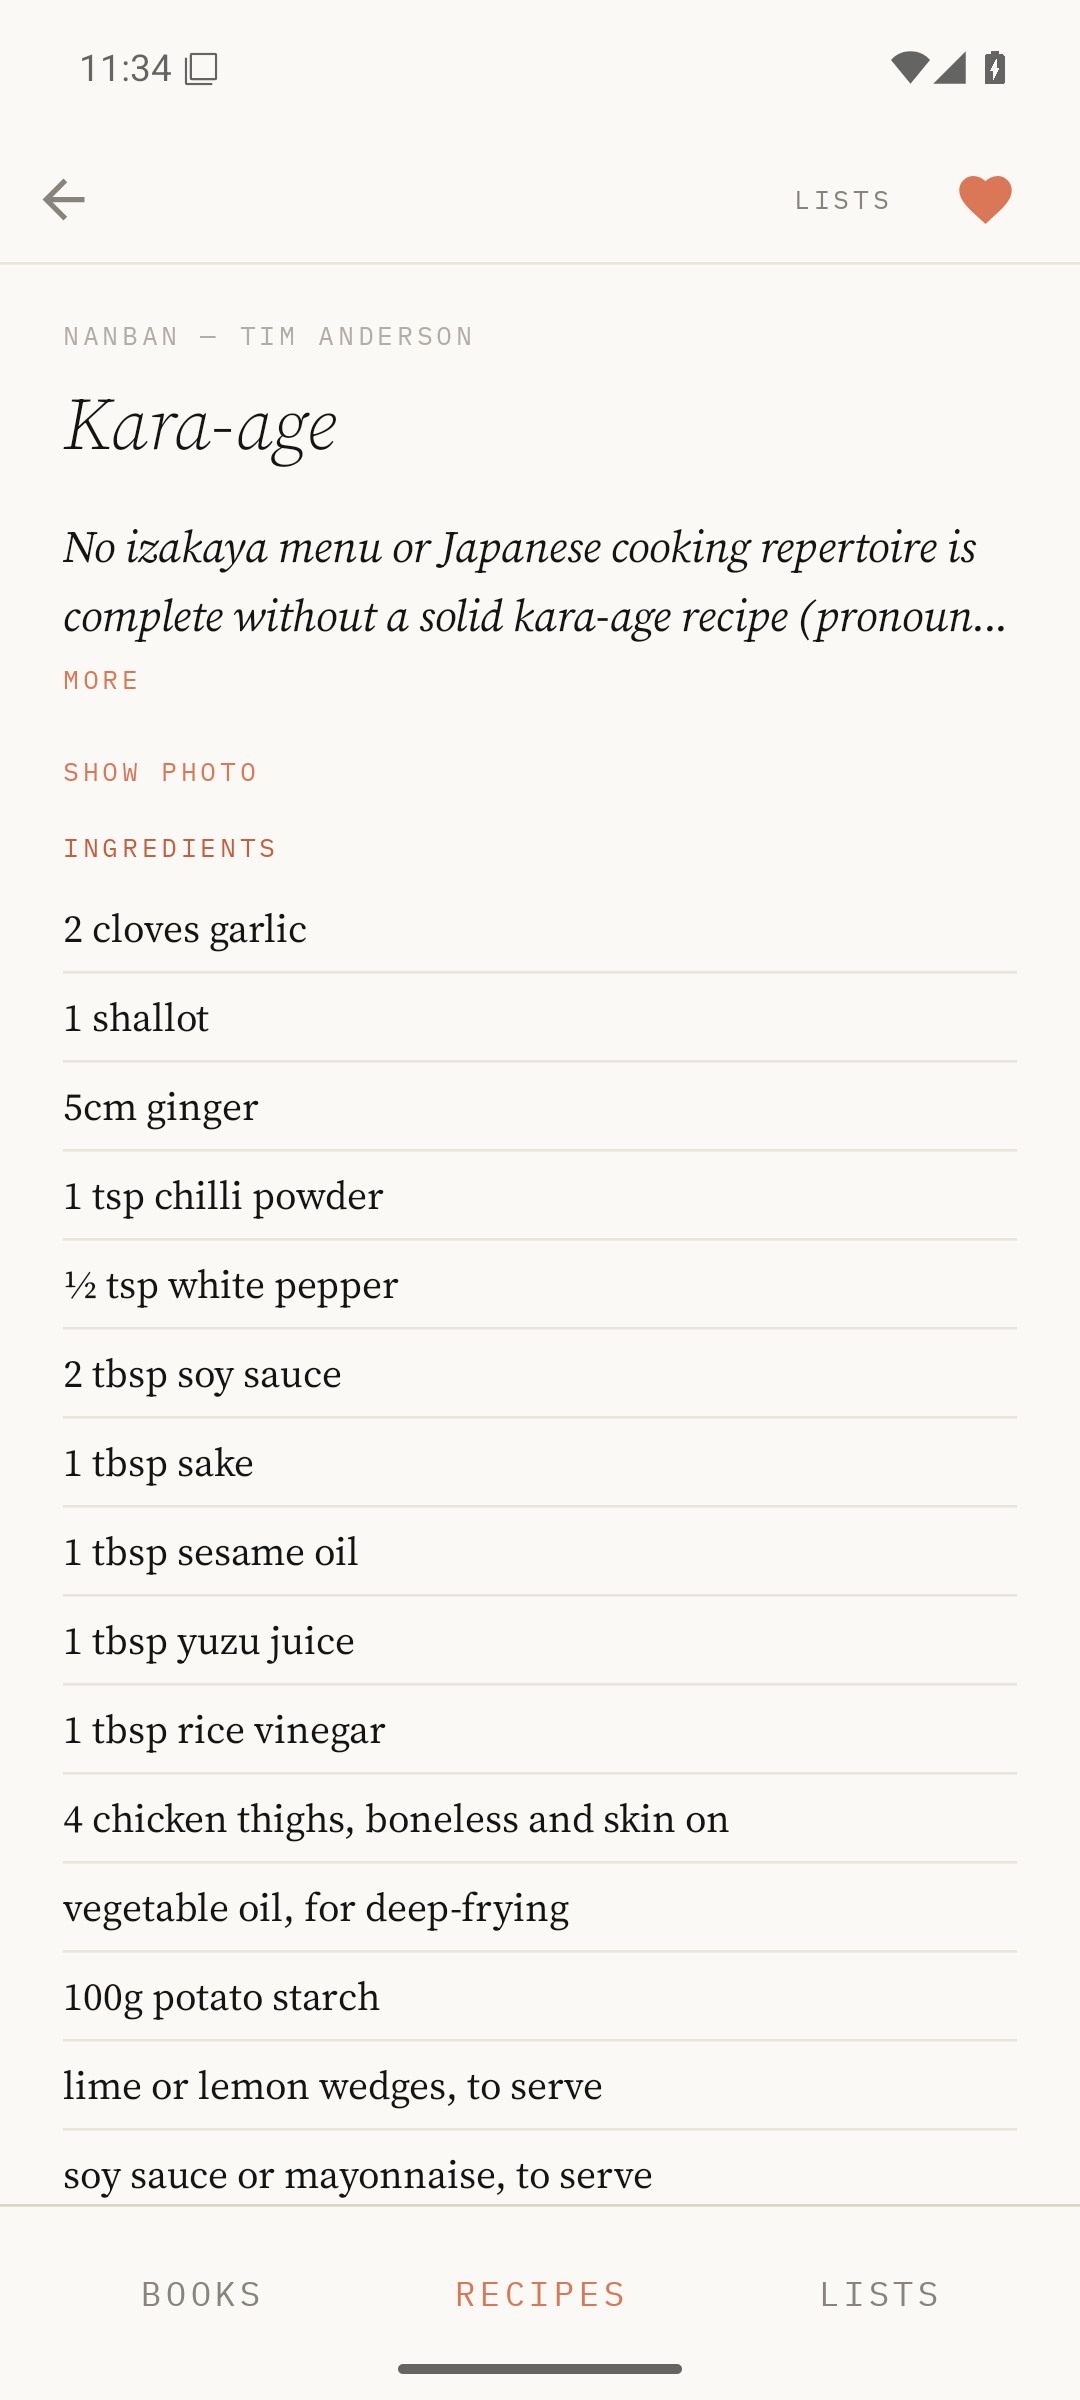
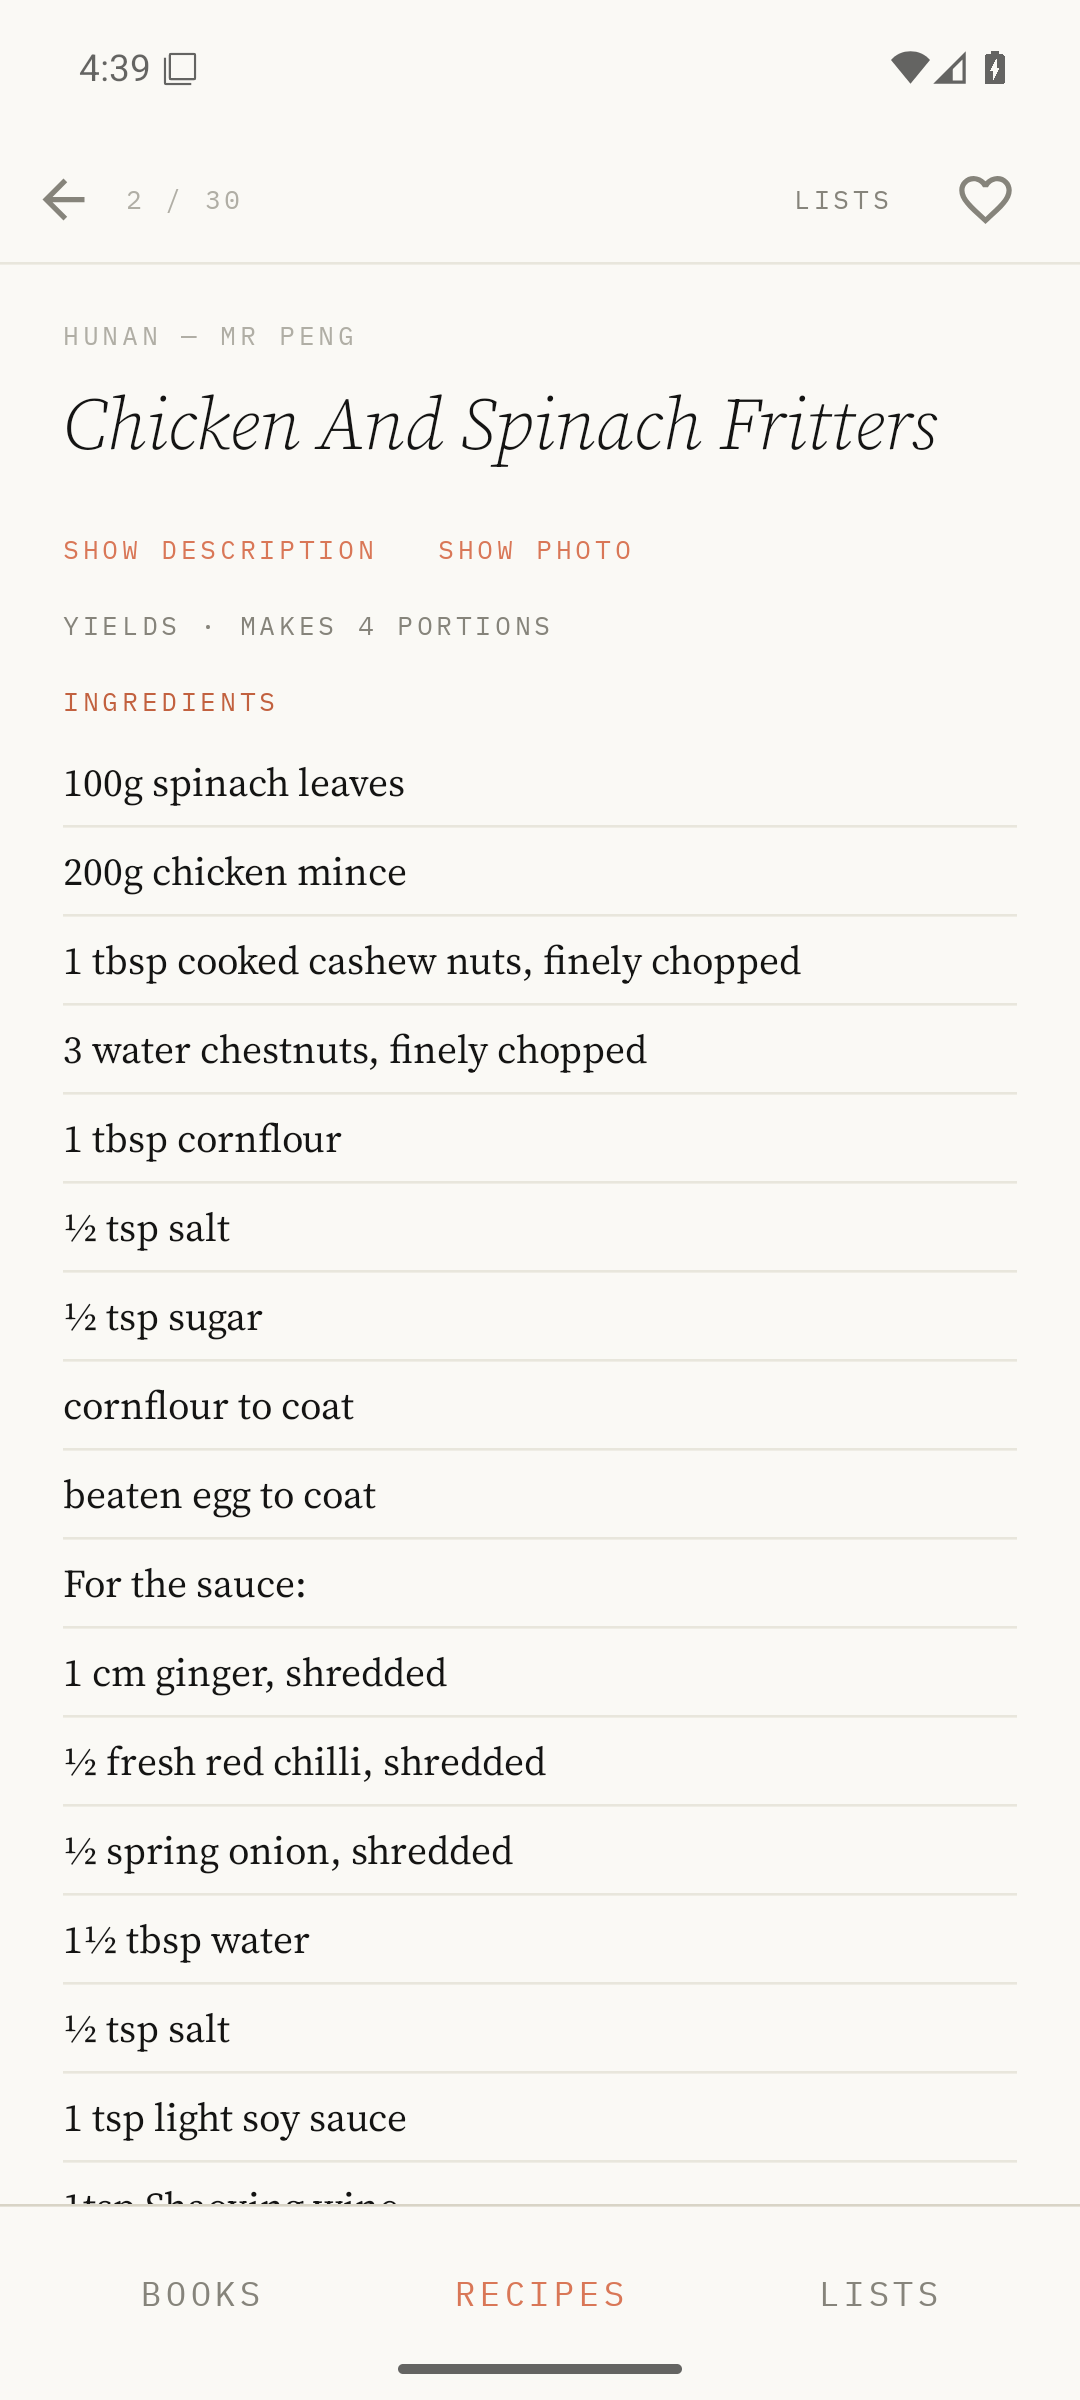
feat(android): swipe between recipes from search and list context (MY-151)

diff --git a/android/app/src/main/kotlin/com/cookmarks/app/ui/MainShell.kt b/android/app/src/main/kotlin/com/cookmarks/app/ui/MainShell.kt
@@ -127,14 +127,17 @@ fun MainShell() {
                     )
                 }
                 composable("recipes") {
-                    RecipesScreen(onOpenRecipe = { navController.navigate("recipe/$it") })
+                    RecipesScreen(onOpenRecipe = { id, ids ->
+                        navController.navigate("recipe/$id?ctx=${RecipeContexts.put(ids)}")
+                    })
                 }
-                composable("recipe/{recipeId}") { entry ->
+                composable("recipe/{recipeId}?ctx={ctx}") { entry ->
                     val recipeId = entry.arguments?.getString("recipeId") ?: return@composable
                     RecipeDetailScreen(
                         recipeId = recipeId,
                         onBack = { navController.popBackStack() },
-                        onOpenRecipe = { navController.navigate("recipe/$it") },
+                        onOpenRecipe = { navController.navigate("recipe/$it?ctx=") },
+                        contextIds = RecipeContexts.get(entry.arguments?.getString("ctx")),
                     )
                 }
                 composable("lists") {
@@ -145,16 +148,19 @@ fun MainShell() {
                     ListDetailScreen(
                         listId = listId,
                         onBack = { navController.popBackStack() },
-                        onOpenRecipe = { navController.navigate("lists/recipe/$it") },
+                        onOpenRecipe = { id, ids ->
+                            navController.navigate("lists/recipe/$id?ctx=${RecipeContexts.put(ids)}")
+                        },
                         onReadThrough = { navController.navigate("read-list/$listId") },
                     )
                 }
-                composable("lists/recipe/{recipeId}") { entry ->
+                composable("lists/recipe/{recipeId}?ctx={ctx}") { entry ->
                     val recipeId = entry.arguments?.getString("recipeId") ?: return@composable
                     RecipeDetailScreen(
                         recipeId = recipeId,
                         onBack = { navController.popBackStack() },
-                        onOpenRecipe = { navController.navigate("lists/recipe/$it") },
+                        onOpenRecipe = { navController.navigate("lists/recipe/$it?ctx=") },
+                        contextIds = RecipeContexts.get(entry.arguments?.getString("ctx")),
                     )
                 }
                 composable("read-list/{listId}") { entry ->

diff --git a/android/app/src/main/kotlin/com/cookmarks/app/ui/recipes/RecipeDetailScreen.kt b/android/app/src/main/kotlin/com/cookmarks/app/ui/recipes/RecipeDetailScreen.kt
@@ -13,6 +13,8 @@ import androidx.compose.foundation.layout.fillMaxWidth
 import androidx.compose.foundation.layout.padding
 import androidx.compose.foundation.layout.width
 import androidx.compose.foundation.lazy.LazyRow
+import androidx.compose.foundation.pager.HorizontalPager
+import androidx.compose.foundation.pager.rememberPagerState
 import androidx.compose.foundation.lazy.items
 import androidx.compose.material.icons.Icons
 import androidx.compose.material.icons.automirrored.filled.ArrowBack
@@ -55,6 +57,27 @@ fun RecipeDetailScreen(
     recipeId: String,
     onBack: () -> Unit,
     onOpenRecipe: (String) -> Unit,
+    contextIds: List<String> = emptyList(),
+) {
+    val ids = remember(recipeId) {
+        if (contextIds.size > 1 && recipeId in contextIds) contextIds else listOf(recipeId)
+    }
+    if (ids.size == 1) {
+        RecipeDetailPage(recipeId, null, onBack, onOpenRecipe)
+        return
+    }
+    val pagerState = rememberPagerState(initialPage = ids.indexOf(recipeId)) { ids.size }
+    HorizontalPager(state = pagerState, beyondViewportPageCount = 1) { page ->
+        RecipeDetailPage(ids[page], "${page + 1} / ${ids.size}", onBack, onOpenRecipe)
+    }
+}
+
+@Composable
+private fun RecipeDetailPage(
+    recipeId: String,
+    position: String?,
+    onBack: () -> Unit,
+    onOpenRecipe: (String) -> Unit,
 ) {
     val colors = CmTheme.colors
     val scope = rememberCoroutineScope()
@@ -76,6 +99,7 @@ fun RecipeDetailScreen(
                         tint = colors.muted,
                     )
                 }
+                position?.let { MonoLabel(it, colour = colors.faint) }
                 Spacer(modifier = Modifier.weight(1f))
                 MonoLabel(
                     "Lists",

diff --git a/android/app/src/main/kotlin/com/cookmarks/app/ui/recipes/RecipesScreen.kt b/android/app/src/main/kotlin/com/cookmarks/app/ui/recipes/RecipesScreen.kt
@@ -62,7 +62,7 @@ import kotlinx.coroutines.launch
 private const val PAGE_SIZE = 30
 
 @Composable
-fun RecipesScreen(onOpenRecipe: (String) -> Unit) {
+fun RecipesScreen(onOpenRecipe: (String, List<String>) -> Unit) {
     val colors = CmTheme.colors
     val scope = rememberCoroutineScope()
     var query by rememberSaveable { mutableStateOf("") }
@@ -257,7 +257,7 @@ fun RecipesScreen(onOpenRecipe: (String) -> Unit) {
                     )
                 }
                 itemsIndexed(items, key = { _, r -> r.id }) { i, recipe ->
-                    RecipeRow(recipe, onClick = { onOpenRecipe(recipe.id) })
+                    RecipeRow(recipe, onClick = { onOpenRecipe(recipe.id, items.map { it.id }) })
                     if (i < items.lastIndex) {
                         HorizontalDivider(color = colors.line, modifier = Modifier.padding(horizontal = 20.dp))
                     }

diff --git a/android/app/src/main/kotlin/com/cookmarks/app/ui/lists/ListDetailScreen.kt b/android/app/src/main/kotlin/com/cookmarks/app/ui/lists/ListDetailScreen.kt
@@ -48,7 +48,7 @@ import kotlinx.coroutines.launch
 fun ListDetailScreen(
     listId: String,
     onBack: () -> Unit,
-    onOpenRecipe: (String) -> Unit,
+    onOpenRecipe: (String, List<String>) -> Unit,
     onReadThrough: () -> Unit,
 ) {
     val colors = CmTheme.colors
@@ -123,7 +123,7 @@ fun ListDetailScreen(
                     verticalAlignment = Alignment.CenterVertically,
                     modifier = Modifier
                         .fillMaxWidth()
-                        .clickable { onOpenRecipe(recipe.id) }
+                        .clickable { onOpenRecipe(recipe.id, shown.map { it.id }) }
                         .padding(start = 20.dp, end = 8.dp, top = 4.dp, bottom = 4.dp),
                 ) {
                     Column(modifier = Modifier.weight(1f)) {

diff --git a/android/app/src/test/kotlin/com/cookmarks/app/RecipeContextsTest.kt b/android/app/src/test/kotlin/com/cookmarks/app/RecipeContextsTest.kt
@@ -1,0 +1,18 @@
+package com.cookmarks.app
+
+import com.cookmarks.app.ui.RecipeContexts
+import org.junit.Assert.assertEquals
+import org.junit.Assert.assertTrue
+import org.junit.Test
+
+class RecipeContextsTest {
+    @Test
+    fun round_trips_and_evicts_oldest() {
+        val first = RecipeContexts.put(listOf("a", "b"))
+        assertEquals(listOf("a", "b"), RecipeContexts.get(first))
+        repeat(8) { RecipeContexts.put(listOf("x$it")) }
+        assertTrue(RecipeContexts.get(first).isEmpty())
+        assertTrue(RecipeContexts.get(null).isEmpty())
+        assertTrue(RecipeContexts.get("missing").isEmpty())
+    }
+}

diff --git a/android/app/src/main/kotlin/com/cookmarks/app/ui/RecipeContexts.kt b/android/app/src/main/kotlin/com/cookmarks/app/ui/RecipeContexts.kt
@@ -1,0 +1,15 @@
+package com.cookmarks.app.ui
+
+object RecipeContexts {
+    private val contexts = LinkedHashMap<String, List<String>>()
+    private var next = 0
+
+    fun put(ids: List<String>): String {
+        val key = (next++).toString()
+        contexts[key] = ids
+        while (contexts.size > 8) contexts.remove(contexts.keys.first())
+        return key
+    }
+
+    fun get(key: String?): List<String> = key?.let { contexts[it] }.orEmpty()
+}
